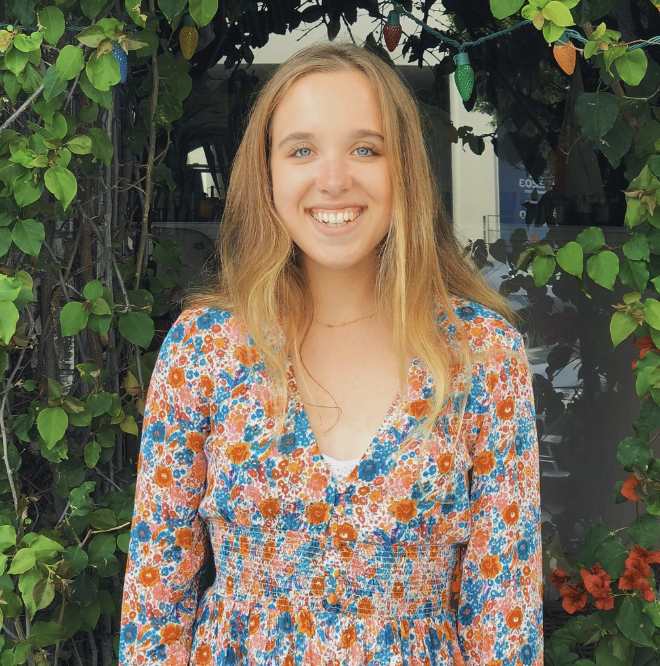
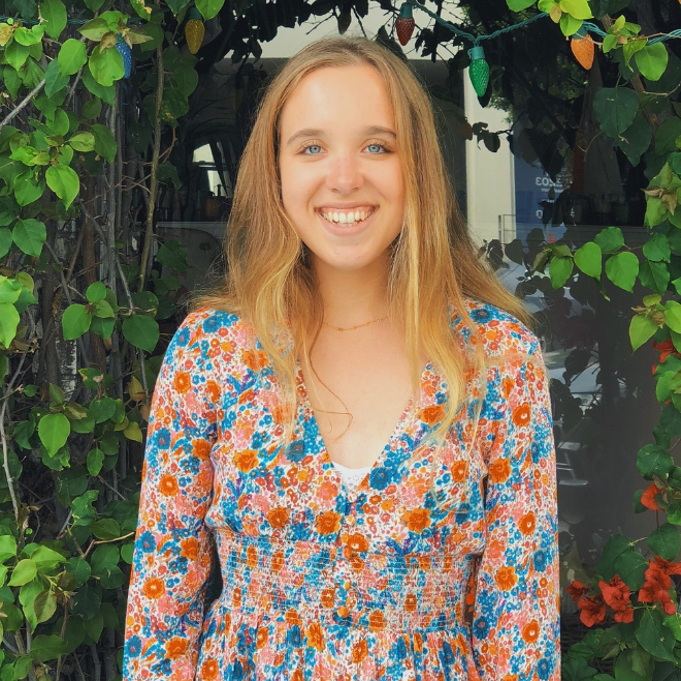
new eboard headshots

diff --git a/blog/src/pages/home.js b/blog/src/pages/home.js
@@ -64,6 +64,8 @@ import Madison from '../../static/img/exec/madison.jpg'
 import Tomas from '../../static/img/exec/tomas.jpg'
 import Viren from '../../static/img/exec/viren.jpg'
 import Glory from '../../static/img/exec/glory.png'
+import Shub from '../../static/img/exec/shub.png'
+import Amber from '../../static/img/exec/amber.png'
 
 import "./home.css"
 const HomePage = () => {
@@ -449,21 +451,21 @@ const HomePage = () => {
                                 </div>
                             </div>
                             <div className="member">
-                                <img src={ Viren } className="profile-pic"/>
+                                <img src={ Shub } className="profile-pic"/>
                                 <div className="description">
                                     <img className="eboard-icon" src={ CurriculumIcon }/>
                                     <div className="description-inner">
-                                        <p className="name">Viren Parmar</p>
+                                        <p className="name">Shub Gaur</p>
                                         <p className="eboard-title">Director of Operations</p>
                                     </div>
                                 </div>
                             </div>
                             <div className="member">
-                                <img src={ Bella } className="profile-pic"/>
+                                <img src={ Amber } className="profile-pic"/>
                                 <div className="description">
                                     <img className="eboard-icon" src={ RecruitmentIcon }/>
                                     <div className="description-inner">
-                                        <p className="name">Bella Archer</p>
+                                        <p className="name">Amber Pugh</p>
                                         <p className="eboard-title">Director of Recruitment</p>
                                     </div>
                                 </div>
